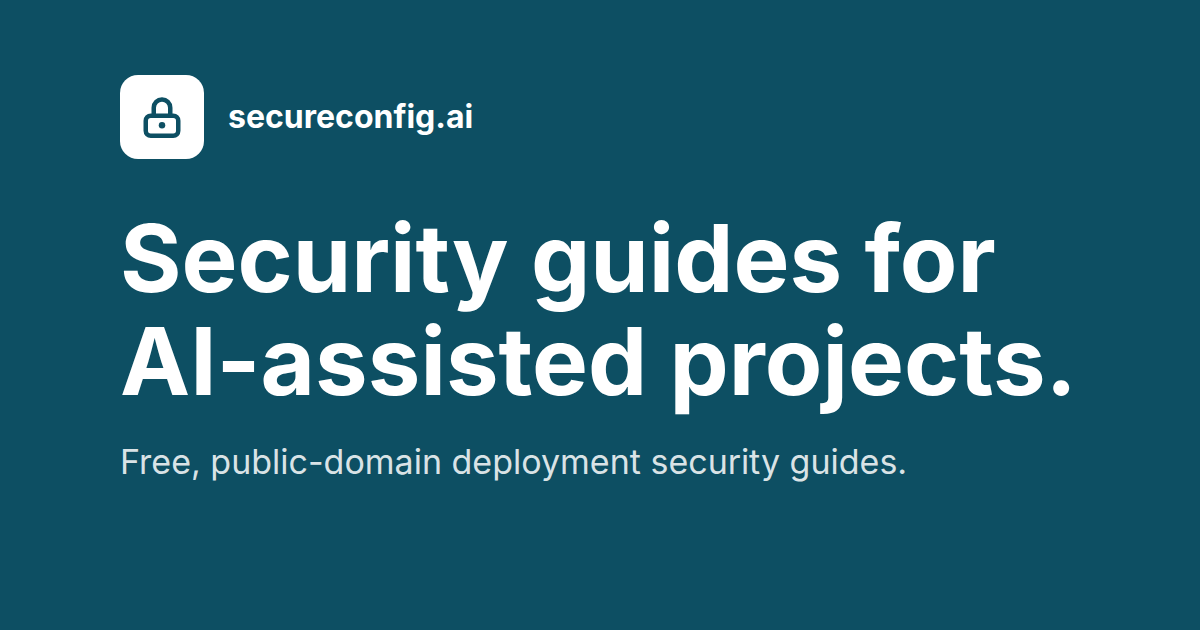
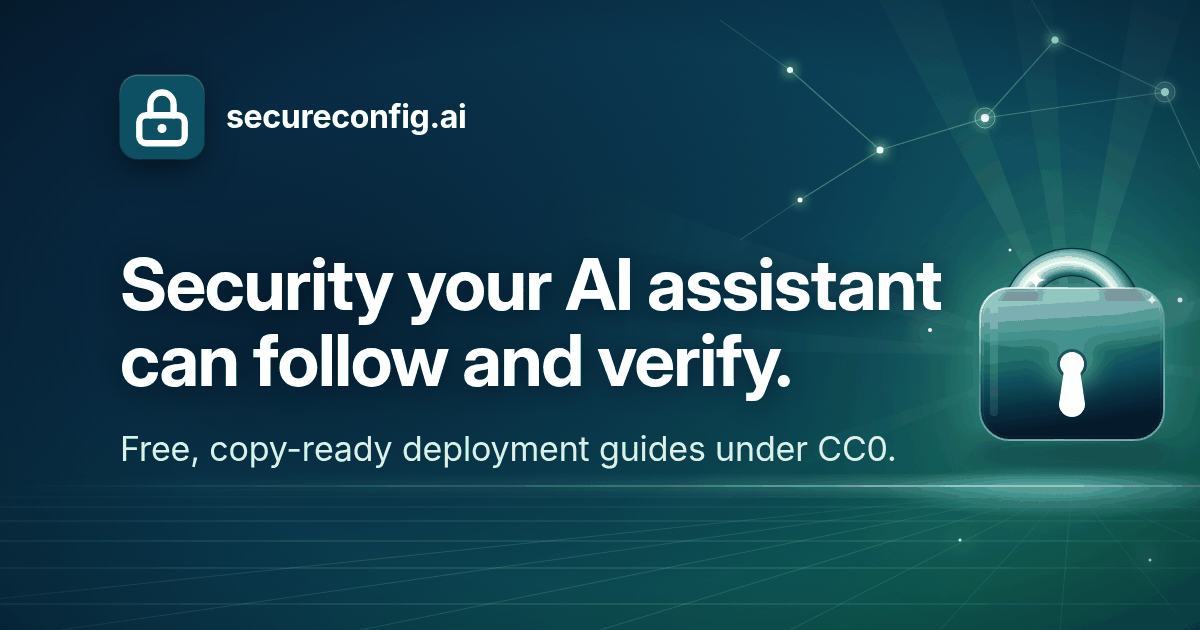
site: redesigned link-preview card and new description and alt text (#1145)

diff --git a/site/index.html b/site/index.html
@@ -11,17 +11,17 @@
   <meta property="og:site_name" content="secureconfig.ai">
   <meta property="og:url" content="https://secureconfig.ai/">
   <meta property="og:title" content="secureconfig.ai - Deployment security guides">
-  <meta property="og:description" content="Deployment security guides for AI-assisted projects: TLS, identity, MFA, secrets, network controls.">
+  <meta property="og:description" content="TLS, identity and MFA, secrets, and network controls for web apps and the AI stack. Free under CC0.">
   <meta property="og:image" content="https://secureconfig.ai/images/secureconfig-card.png">
   <meta property="og:image:type" content="image/png">
   <meta property="og:image:width" content="1200">
   <meta property="og:image:height" content="630">
-  <meta property="og:image:alt" content="secureconfig.ai: Free, public-domain deployment security guides.">
+  <meta property="og:image:alt" content="secureconfig.ai: Free, copy-ready deployment guides under CC0.">
   <meta name="twitter:card" content="summary_large_image">
   <meta name="twitter:title" content="secureconfig.ai - Deployment security guides">
-  <meta name="twitter:description" content="Deployment security guides for AI-assisted projects: TLS, identity, MFA, secrets, network controls.">
+  <meta name="twitter:description" content="TLS, identity and MFA, secrets, and network controls for web apps and the AI stack. Free under CC0.">
   <meta name="twitter:image" content="https://secureconfig.ai/images/secureconfig-card.png">
-  <meta name="twitter:image:alt" content="secureconfig.ai: Free, public-domain deployment security guides.">
+  <meta name="twitter:image:alt" content="secureconfig.ai: Free, copy-ready deployment guides under CC0.">
   <style>
     :root { color-scheme: light dark; --accent: #17715a; --pad: clamp(1.25rem, 4vw, 3rem); }
     @media (prefers-color-scheme: dark) { :root { --accent: #4fb08c; } }
